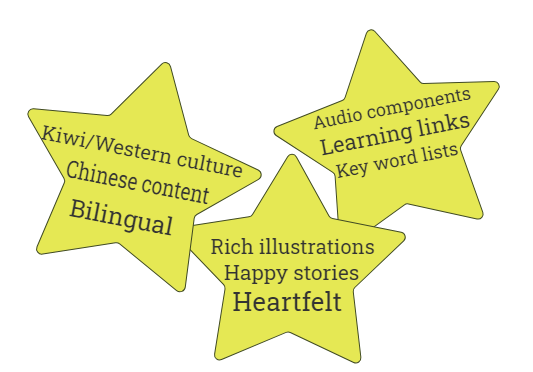
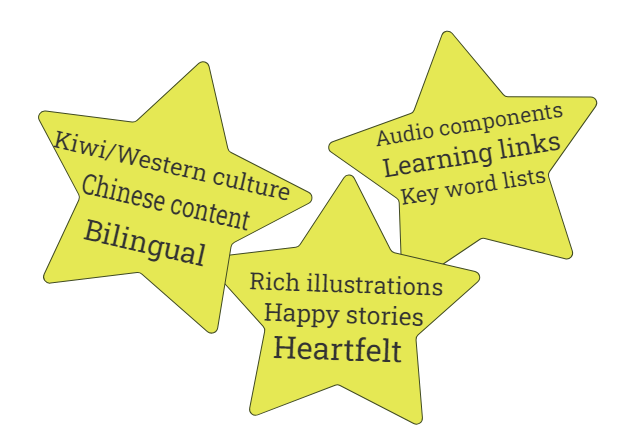
Rebranding

diff --git a/css/resume.min.css b/css/resume.min.css
@@ -1,4 +1,4 @@
 /*!
  * Start Bootstrap - Kiwi-Du v0.0.8 (kiwi-du.com)
  * Copyright 2019-2020 Dmitrii Bludov
- */body{font-family:Muli,-apple-system,BlinkMacSystemFont,'Segoe UI',Roboto,'Helvetica Neue',Arial,sans-serif,'Apple Color Emoji','Segoe UI Emoji','Segoe UI Symbol','Noto Color Emoji';padding-top:54px;color:#868e96}@media only screen and (min-width:992px){body{padding-top:0;padding-left:17rem}}h1,h2,h3,h4,h5,h6{font-family:'Saira Extra Condensed',-apple-system,BlinkMacSystemFont,'Segoe UI',Roboto,'Helvetica Neue',Arial,sans-serif,'Apple Color Emoji','Segoe UI Emoji','Segoe UI Symbol','Noto Color Emoji';font-weight:700;text-transform:uppercase;color:#343a40}h1{font-size:6rem;line-height:5.5rem}h2{font-size:3.5rem}h3{font-size:2rem}.ul-as-p,p{font-size:1.15rem;font-weight:400;text-align:justify;color:#211a1e}.blockquote{text-align:center}.subheading{text-transform:uppercase;font-weight:500;font-family:'Saira Extra Condensed',-apple-system,BlinkMacSystemFont,'Segoe UI',Roboto,'Helvetica Neue',Arial,sans-serif,'Apple Color Emoji','Segoe UI Emoji','Segoe UI Symbol','Noto Color Emoji';font-size:1.5rem}.green-text{color:#9bc53d}.social-icons a{display:inline-block;height:3.5rem;width:3.5rem;background-color:#495057;color:#fff!important;border-radius:100%;text-align:center;font-size:1.5rem;line-height:3.5rem;margin-right:1rem}.social-icons a:last-child{margin-right:0}.social-icons a:hover{background-color:#e53939}.dev-icons{font-size:3rem}.dev-icons .list-inline-item i:hover{color:#e53939}.left-side-text{flex:1 1 60%}.svg-star{flex:1 1 auto;margin-top:-5rem}.book-sample-title{text-align:center;margin:0}#book-wrapper{margin-left:auto;margin-right:auto;max-width:80%}#book-container{float:left;padding:1em;width:100%}.open-book-bg{background:#fff;box-shadow:rgba(0,0,0,.5) 0 1em 3em;color:#000;padding:2em}.open-book-bg *{position:relative}.book-sticker{width:30%}.audio-player{text-align:center}.author-img-container{text-align:center}.author-img{border-radius:5%;max-width:80%;box-shadow:3px 4px #c4c4c470}.about-authors{flex:1 0 50%}figcaption{text-align:center;margin-top:5px}@media only screen and (min-width:50em){.open-book-bg{margin:1em;position:relative}.open-book-bg:before{background-color:#fde74c;border-radius:.25em;bottom:-1em;content:'';left:-1em;position:absolute;right:-1em;top:-1em;z-index:-1}.open-book-bg:after{background:linear-gradient(to right,transparent 0,rgba(0,0,0,.2) 46%,rgba(0,0,0,.5) 49%,rgba(0,0,0,.6) 50%,rgba(0,0,0,.5) 51%,rgba(0,0,0,.2) 52%,transparent 100%);bottom:-1em;content:'';left:50%;position:absolute;top:-1em;transform:translate(-50%,0);width:4em;z-index:1}.open-book-bg>*{-moz-column-count:2;column-count:2;-moz-column-gap:6em;column-gap:6em;position:relative;z-index:1}}@media only screen and (max-width:900px){h1,h2,h3{text-align:center}h1{font-size:4rem}.front-page-text{flex-flow:row wrap}.svg-star{margin-top:0;max-width:400px}.about-authors-wrapper{flex-flow:column nowrap}#book-wrapper{max-width:100%}.open-book-bg{padding:1em}}#sideNav .navbar-nav .nav-item .nav-link{font-weight:800;letter-spacing:.05rem;text-transform:uppercase}#sideNav .navbar-toggler:focus{outline-color:#b9d778}@media (min-width:992px){#sideNav{text-align:center;position:fixed;top:0;left:0;display:flex;flex-direction:column;width:17rem;height:100vh}#sideNav .navbar-brand{display:flex;margin:auto auto 0;padding:.5rem}#sideNav .navbar-brand .img-profile{max-width:10rem;max-height:10rem;box-shadow:6px 6px rgba(0,0,0,.28)}#sideNav .navbar-collapse{display:flex;align-items:flex-start;flex-grow:0;width:100%;margin-bottom:auto}#sideNav .navbar-collapse .navbar-nav{flex-direction:column;width:100%}#sideNav .navbar-collapse .navbar-nav .nav-item{display:block}#sideNav .navbar-collapse .navbar-nav .nav-item .nav-link{display:block}}section.resume-section{padding-top:5rem!important;padding-bottom:5rem!important}section.resume-section .resume-item .resume-date{min-width:none}@media (min-width:768px){section.resume-section{min-height:100vh}section.resume-section .resume-item .resume-date{min-width:18rem}}@media (min-width:992px){section.resume-section{padding-top:3rem!important;padding-bottom:3rem!important}}.bg-primary{background-color:#e53939!important}.text-primary{color:#e53939!important}a{color:#e53939}a:active,a:focus,a:hover{color:#b91818}
+ */body{font-family:Muli,-apple-system,BlinkMacSystemFont,'Segoe UI',Roboto,'Helvetica Neue',Arial,sans-serif,'Apple Color Emoji','Segoe UI Emoji','Segoe UI Symbol','Noto Color Emoji';padding-top:54px;color:#868e96}@media only screen and (min-width:992px){body{padding-top:0;padding-left:17rem}}h1,h2,h3,h4,h5,h6{font-family:'Saira Extra Condensed',-apple-system,BlinkMacSystemFont,'Segoe UI',Roboto,'Helvetica Neue',Arial,sans-serif,'Apple Color Emoji','Segoe UI Emoji','Segoe UI Symbol','Noto Color Emoji';font-weight:700;text-transform:uppercase;color:#343a40}h1{font-size:6rem;line-height:5.5rem}h2{font-size:3.5rem}h3{font-size:2rem}.ul-as-p,p{font-size:1.15rem;font-weight:400;text-align:justify;color:#211a1e}.blockquote{text-align:center}.subheading{text-transform:uppercase;font-weight:500;font-family:'Saira Extra Condensed',-apple-system,BlinkMacSystemFont,'Segoe UI',Roboto,'Helvetica Neue',Arial,sans-serif,'Apple Color Emoji','Segoe UI Emoji','Segoe UI Symbol','Noto Color Emoji';font-size:1.5rem}.green-text{color:#9bc53d}.social-icons a{display:inline-block;height:3.5rem;width:3.5rem;background-color:#495057;color:#fff!important;border-radius:100%;text-align:center;font-size:1.5rem;line-height:3.5rem;margin-right:1rem}.social-icons a:last-child{margin-right:0}.social-icons a:hover{background-color:#e53939}.dev-icons{font-size:3rem}.dev-icons .list-inline-item i:hover{color:#e53939}.left-side-text{flex:0 1 60%}.svg-star{flex:1 1 auto;margin-top:-5rem;max-height:428px}.book-sample-title{text-align:center;margin:0}#book-wrapper{margin-left:auto;margin-right:auto;max-width:80%}#book-container{float:left;padding:1em;width:100%}.open-book-bg{background:#fff;box-shadow:rgba(0,0,0,.5) 0 1em 3em;color:#000;padding:2em}.open-book-bg *{position:relative}.book-sticker{width:30%}.audio-player{text-align:center}.author-img-container{text-align:center}.author-img{border-radius:5%;max-width:80%;box-shadow:3px 4px #c4c4c470}.about-authors{flex:1 0 50%}figcaption{text-align:center;margin-top:5px}@media only screen and (min-width:50em){.open-book-bg{margin:1em;position:relative}.open-book-bg:before{background-color:#fde74c;border-radius:.25em;bottom:-1em;content:'';left:-1em;position:absolute;right:-1em;top:-1em;z-index:-1}.open-book-bg:after{background:linear-gradient(to right,transparent 0,rgba(0,0,0,.2) 46%,rgba(0,0,0,.5) 49%,rgba(0,0,0,.6) 50%,rgba(0,0,0,.5) 51%,rgba(0,0,0,.2) 52%,transparent 100%);bottom:-1em;content:'';left:50%;position:absolute;top:-1em;transform:translate(-50%,0);width:4em;z-index:1}.open-book-bg>*{-moz-column-count:2;column-count:2;-moz-column-gap:6em;column-gap:6em;position:relative;z-index:1}}@media only screen and (max-width:900px){h1,h2,h3{text-align:center}h1{font-size:4rem}.front-page-text{flex-flow:row wrap}.svg-star{margin-top:0;max-width:400px}.about-authors-wrapper{flex-flow:column nowrap}#book-wrapper{max-width:100%}.open-book-bg{padding:1em}}#sideNav .navbar-nav .nav-item .nav-link{font-weight:800;letter-spacing:.05rem;text-transform:uppercase}#sideNav .navbar-toggler:focus{outline-color:#b9d778}@media (min-width:992px){#sideNav{text-align:center;position:fixed;top:0;left:0;display:flex;flex-direction:column;width:17rem;height:100vh}#sideNav .navbar-brand{display:flex;margin:auto auto 0;padding:.5rem}#sideNav .navbar-brand .img-profile{max-width:10rem;max-height:10rem;box-shadow:6px 6px rgba(0,0,0,.28)}#sideNav .navbar-collapse{display:flex;align-items:flex-start;flex-grow:0;width:100%;margin-bottom:auto}#sideNav .navbar-collapse .navbar-nav{flex-direction:column;width:100%}#sideNav .navbar-collapse .navbar-nav .nav-item{display:block}#sideNav .navbar-collapse .navbar-nav .nav-item .nav-link{display:block}}section.resume-section{padding-top:5rem!important;padding-bottom:5rem!important}section.resume-section .resume-item .resume-date{min-width:none}@media (min-width:768px){section.resume-section{min-height:100vh}section.resume-section .resume-item .resume-date{min-width:18rem}}@media (min-width:992px){section.resume-section{padding-top:3rem!important;padding-bottom:3rem!important}}.bg-primary{background-color:#e53939!important}.text-primary{color:#e53939!important}a{color:#e53939}a:active,a:focus,a:hover{color:#b91818}

diff --git a/css/resume.css b/css/resume.css
@@ -94,12 +94,13 @@ p,
 }
 
 .left-side-text {
-  flex: 1 1 60%;
+  flex: 0 1 60%;
 }
 
 .svg-star {
   flex: 1 1 auto;
   margin-top: -5rem;
+  max-height: 428px;
 }
 
 .book-sample-title {

diff --git a/scss/_global.scss b/scss/_global.scss
@@ -91,11 +91,13 @@ p,
 }
 
 .left-side-text {
-  flex: 1 1 60%
+  flex: 0 1 60%
 }
 .svg-star {
   flex: 1 1 auto;
   margin-top: -5rem;
+  max-height: 428px;
+
 }
 
 .book-sample-title {
